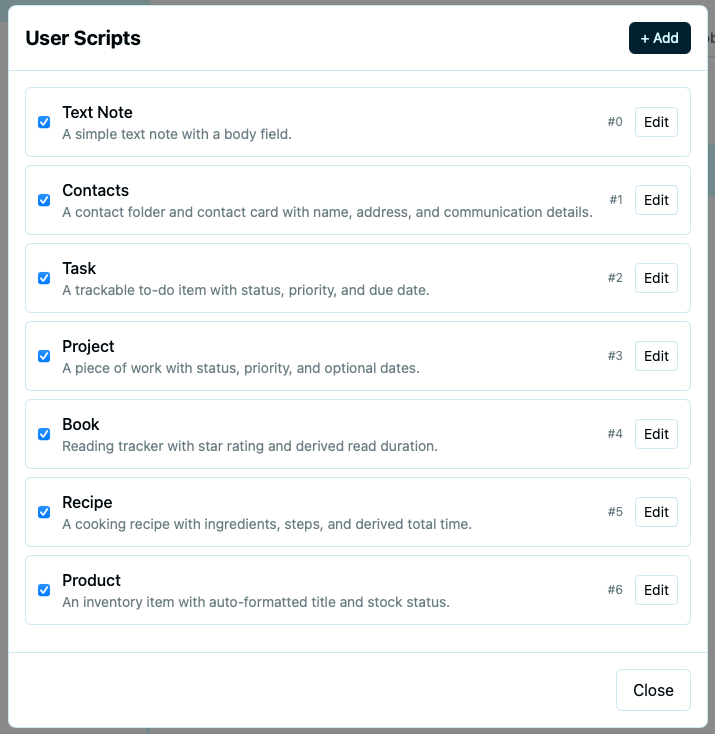
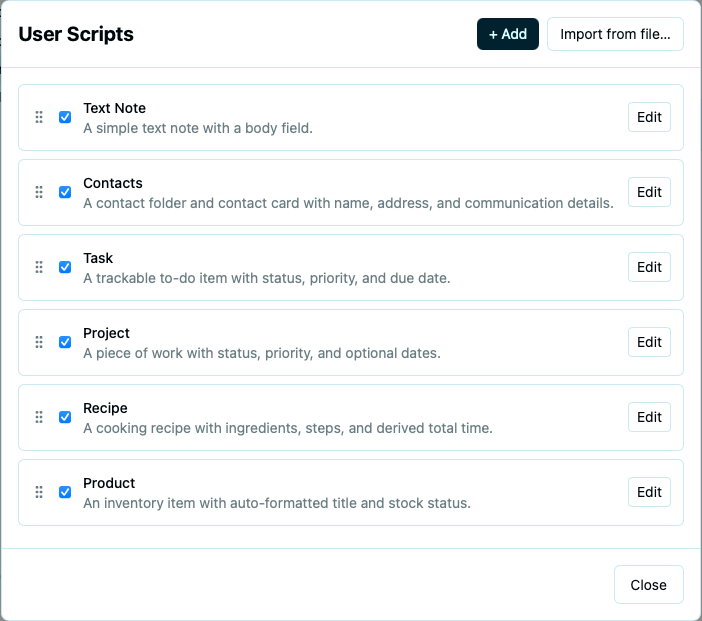
docs: overhaul user guide with new screenshots and feature documentation
- Update screenshots for settings, context menu, manage scripts, and add-note dialog
- Remove old add-note-dialog.png (position now chosen directly from context menu)
- Add new sections: Anatomy of a Note, Tags, Note Links, Themes, Exporting and Importing
- Document workspace password (set at creation, prompted on open)
- Document drag-and-drop note reorganisation
- Document script-defined context menu actions
- Document theme management and JSON theme editor
- Update export format from .zip to .krillnotes with encryption and file format details
- Remove Book from built-in types list; reflect updated User Scripts panel UI

Changed region(s): [[0.0, 0.0, 1.0, 1.0], [0.8376, 0.153, 0.9573, 0.2142]]

diff --git a/content/docs/user-guide/index.md b/content/docs/user-guide/index.md
@@ -20,16 +20,31 @@ The **File** menu is where all workspace operations live.
 
 - **New Workspace** (`⌘N`) — creates a new `.krillnotes` file in your default workspace directory.
 - **Open Workspace** (`⌘O`) — opens a picker showing your recently used workspaces.
-- **Export Workspace** — saves the current workspace as a `.zip` archive (notes + scripts).
-- **Import Workspace** — restores a workspace from a previously exported `.zip`.
+- **Export Workspace** — saves the current workspace as a `.krillnotes` archive (notes + scripts). You will be prompted whether to protect the export with a password.
+- **Import Workspace** — restores a workspace from a previously exported `.krillnotes` archive.
 
 ![Open workspace dialog](open-workspace.png)
 
+When creating a new workspace you are prompted to set an optional password.
+
+![Set Workspace Password dialog with Password and Confirm Password fields](set-workspace-password.png)
+
+Enter and confirm a password, then click **Confirm**. The workspace is encrypted on disk; you will be prompted for the password each time you open it. Leave both fields blank and click **Confirm** to skip encryption.
+
+When opening a password-protected workspace, a prompt shows the workspace name and asks for its password.
+
+![Enter Password dialog when opening an encrypted workspace](enter-password-when-opening.png)
+
 ### Settings
 
-Go to **Edit → Settings** to configure your default workspace directory. New workspaces are created here automatically.
+Go to **Edit → Settings** to configure your workspace preferences.
 
 ![Settings dialog](settings-dialog.png)
+
+- **Default Workspace Directory** — new workspaces are created here automatically. Click **Browse…** to change it.
+- **Remember workspace passwords for this session** — when checked, passwords are kept in memory until the app closes. Off by default.
+
+The **Appearance** section lets you choose a colour mode (**Light**, **Dark**, or **System**) and assign separate themes for light and dark modes. Click **Manage Themes…** to create or import custom themes.
 
 ---
 
@@ -43,6 +58,12 @@ Once a workspace is open, the main window has two panels: the **note tree** on t
 - **Right panel** — shows the selected note. The content depends on the note type: a contacts folder shows a summary table; an individual contact shows its fields.
 
 You can drag the divider between the two panels to resize them.
+
+### Reorganising notes
+
+Drag any note in the tree to move it. A blue indicator line shows where it will be dropped.
+
+![Moving a note with drag and drop showing the drop position indicator](moving-a-note-with-drag-and-drop.png)
 
 ### Keyboard navigation
 
@@ -61,19 +82,81 @@ Right-click any note in the tree to open the context menu.
 
 ![Note context menu](note-context-menu.png)
 
-Choose **Add Note** to open the Add Note dialog.
+- **Add Child** — adds a new note nested one level deeper.
+- **Add Sibling** — adds a new note at the same level, directly below.
+- **Edit** — opens the selected note for editing.
+- **Copy Note** — copies the note to the clipboard.
+- **Paste as Child / Paste as Sibling** — pastes a copied note at the chosen position.
 
-![Add Note dialog](add-note-dialog.png)
+Choosing **Add Child** or **Add Sibling** opens the Add Note dialog. Select the **Note Type** and click **Create**.
 
-**Position** controls where the new note appears:
-- *As child of selected note* — nested one level deeper.
-- *As sibling of selected note* — at the same level, directly below.
+![Add Child Note dialog showing the Note Type selector](add-note-type-select.png)
 
-**Note Type** determines the fields and behaviour of the note. The dropdown lists every type defined by the workspace's scripts.
+The built-in types are: **TextNote**, **ContactsFolder**, **Contact**, **Task**, **Project**, **Recipe**, and **Product**. Scripts can define additional types.
 
-![Note type selector showing all available types](add-note-type-select.png)
+### Script-defined menu actions
 
-The built-in types are: **TextNote**, **ContactsFolder**, **Contact**, **Task**, **Project**, **Book**, **Recipe**, and **Product**. Scripts can define additional types.
+Scripts can extend the context menu with custom actions for a specific note type. These appear between the standard items and **Delete**.
+
+![Context menu for a Library note showing script-defined sort actions](custom-tree-menus-defined-by-scripts.png)
+
+For example, a Library script might add sort actions — *Sort by Title*, *Sort by Author*, *Sort by Rating* — that operate on that note's children. What actions are available depends entirely on the scripts installed in the workspace.
+
+---
+
+## Anatomy of a Note
+
+Every note in Krillnotes is made up of the same three building blocks.
+
+![Anatomy of a simple note showing Markdown body, Linked Note, and Note Tags](anatomy-of-a-simple-note.png)
+
+- **Markdown** — any `textarea` field (such as *Body*) is rendered as Markdown. You can use headings, bullet lists, bold, links, and more.
+- **Linked Note** — a field that references another note in the workspace by title. Clicking the link in the detail view jumps directly to that note.
+- **Note Tags** — free-form labels attached to a note for organisation and filtering.
+
+The exact fields a note has depend on its type, which is defined by a script.
+
+---
+
+## Tags
+
+Tags are free-form labels you can attach to any note. They appear as chips in the edit form and in the detail view, and are collected in a **tag cloud** at the bottom of the tree.
+
+### Editing tags
+
+Open a note for editing. The tag bar appears directly below the title — existing tags show with an **×** button to remove them, and the **Add tag…** input lets you type a new one.
+
+![Editing a note's tags showing existing tags and the Add tag input](editing-a-notes-tags.png)
+
+Press `Enter` or comma to confirm a tag. Tags are saved with the note.
+
+### Tag cloud
+
+The tag cloud at the bottom of the tree panel shows every tag used in the workspace.
+
+![Tag cloud at the bottom of the tree view showing all workspace tags](tag-cloud-in-tree-view.png)
+
+Click a tag in the cloud to filter the tree to notes that carry that tag. Click it again to clear the filter.
+
+---
+
+## Note Links
+
+A *Linked Note* field lets you attach a reference to another note in the workspace. When viewing the note, the linked title appears as a clickable link that jumps directly to that note.
+
+### Adding a link
+
+In edit mode, click the **Linked Note** field and start typing. An autocomplete list of matching note titles appears.
+
+![Linking to another note by typing in the Linked Note field](linking-to-another-note.png)
+
+Select a note from the list to set the link.
+
+### Removing a link
+
+To clear a link, click the **×** button at the end of the Linked Note field.
+
+![Removing a note link by clicking the × button](remove-a-note-link.png)
 
 ---
 
@@ -115,9 +198,9 @@ Scripts define note types and their behaviour. Each workspace has its own set of
 
 Open **Tools → Manage Scripts** to see all scripts in the current workspace.
 
-![Manage Scripts panel listing all built-in scripts](manage-scripts.png)
+![User Scripts panel listing all built-in scripts](manage-scripts.png)
 
-Each script has a checkbox to enable or disable it, a load order number, and an **Edit** button. The **+ Add** button in the top-right corner creates a new blank script.
+Each script shows its name and description. Click **Edit** to open its source, **+ Add** to create a new blank script, or **Import from file…** to load one from disk.
 
 ### Editing a script
 
@@ -126,6 +209,58 @@ Clicking **Edit** opens the script source in a built-in code editor.
 ![Editing the Contacts script](editing-a-script.png)
 
 Scripts are written in [Rhai](https://rhai.rs) — a small scripting language embedded in Krillnotes. See the [Scripting Guide](/docs/scripting/) for a full reference.
+
+---
+
+## Themes
+
+Krillnotes supports custom colour and typography themes. The built-in **light** and **dark** themes are always available; you can create your own alongside them.
+
+### Managing themes
+
+Open **Edit → Settings** and click **Manage Themes…**.
+
+![Manage Themes dialog showing built-in and custom themes](manage-themes.png)
+
+- Built-in themes cannot be edited or deleted. The active light and dark themes are marked with a checkmark.
+- For each custom theme, use **Set Light** / **Set Dark** to assign it to a colour mode, **Edit** to modify it, or **Delete** to remove it.
+- Click **+ New Theme** to create a theme from the default template, or **Import from file…** to load one from disk.
+
+### Editing a theme
+
+Themes are defined as JSON with separate `light-theme` and `dark-theme` sections. Each section can contain `colors`, `typography`, and `spacing` objects. Commented-out lines show the available keys — uncomment and adjust as needed.
+
+![Theme editor showing the JSON structure for a new theme](edit-a-new-theme.png)
+
+Click **Save** to apply the theme immediately.
+
+---
+
+## Exporting and Importing
+
+Use **File → Export Workspace** to save a portable copy of the current workspace, and **File → Import Workspace** to restore one.
+
+### Encryption
+
+When exporting, you are prompted whether to protect the archive with a password.
+
+![Export dialog asking whether to protect the export with a password](when-exporting-a-workspace.png)
+
+- **Skip — no encryption** — saves the export without a password.
+- **Encrypt** — encrypts the export with the password you enter. You will need the same password to import it later.
+
+### Export file format
+
+The exported file has a `.krillnotes` extension and is a standard zip archive. You can open it with any zip tool to inspect or back up the contents directly.
+
+![Contents of an export showing notes.json, workspace.json, and a scripts folder](anatomy-of-an-export.png)
+
+Inside the archive you will find:
+
+- `notes.json` — all notes in the workspace.
+- `workspace.json` — workspace metadata.
+- `scripts/scripts.json` — script metadata.
+- `scripts/*.rhai` — each script's source as a plain text file.
 
 ---
 
